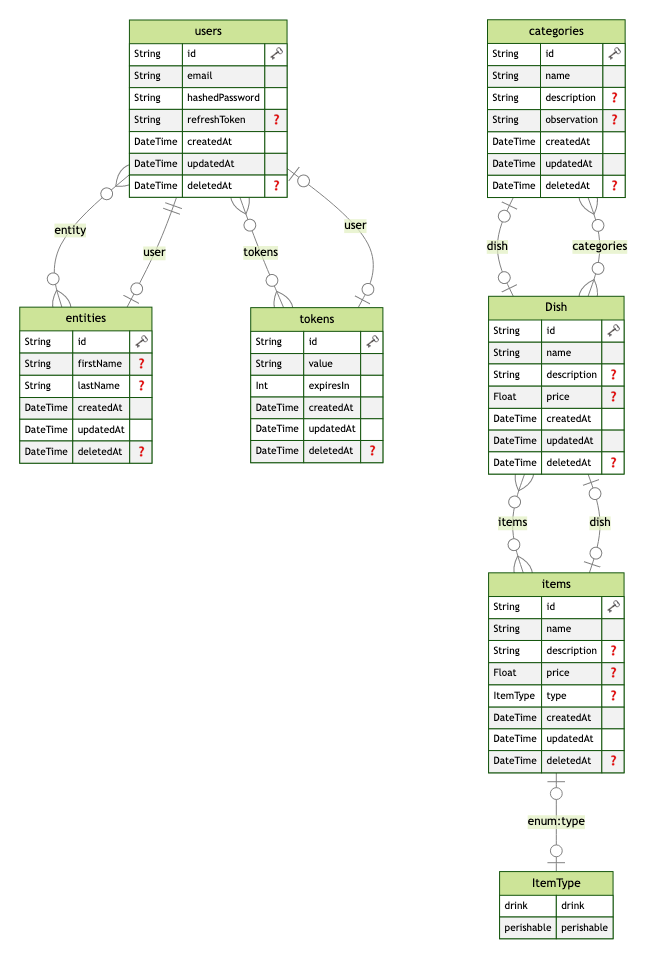
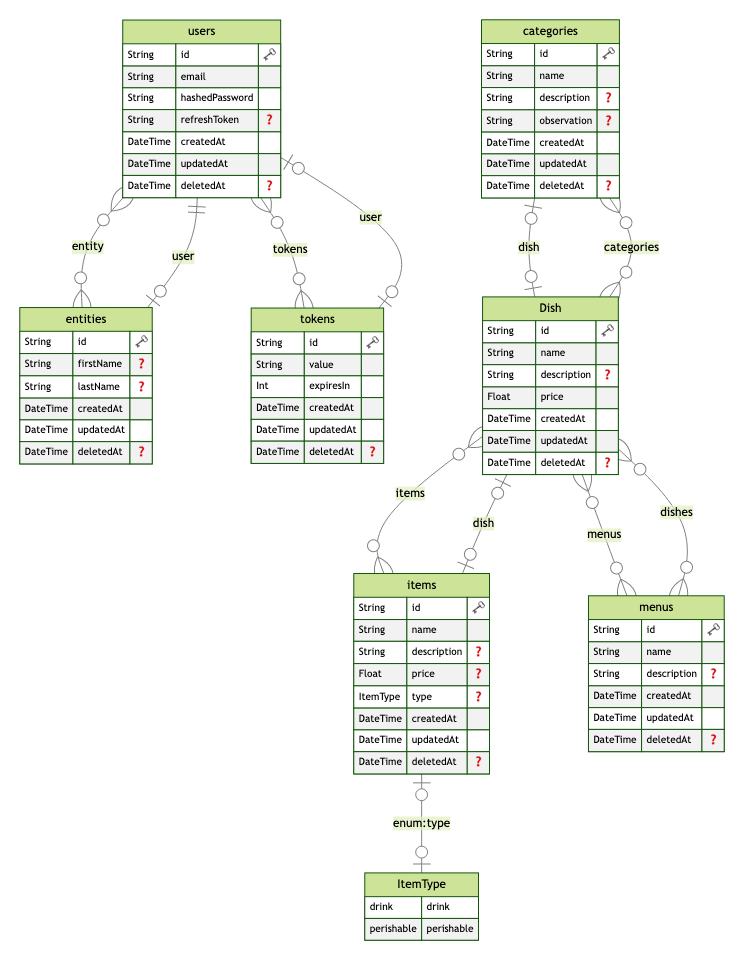
feat: menu crud

Changed region(s): [[0.0, 0.0, 0.9771, 0.9897]]

diff --git a/src/modules/menu/menu.service.ts b/src/modules/menu/menu.service.ts
@@ -1,0 +1,103 @@
+import {
+  BadRequestException,
+  Injectable,
+  NotFoundException,
+} from '@nestjs/common';
+import { PrismaService } from '../prisma/prisma.service';
+import { CreateMenuDto, UpdateMenuDto } from './dto';
+
+@Injectable()
+export class MenuService {
+  constructor(private prisma: PrismaService) {}
+
+  async getMenus() {
+    try {
+      const menus = await this.prisma.menu.findMany({
+        where: {
+          deletedAt: null,
+        },
+      });
+
+      return menus;
+    } catch (error) {
+      throw new BadRequestException('Erro ao buscar menus');
+    }
+  }
+
+  async getMenuById(id: string) {
+    try {
+      const menu = await this.prisma.menu.findUnique({
+        where: {
+          id: id,
+          deletedAt: null,
+        },
+      });
+
+      if (!menu) {
+        throw new NotFoundException('Menu não encontrado');
+      }
+
+      return menu;
+    } catch (error) {
+      if (error instanceof NotFoundException) {
+        throw new NotFoundException(error.message);
+      }
+
+      throw new BadRequestException('Erro ao buscar menu');
+    }
+  }
+
+  async createManu(dto: CreateMenuDto) {
+    try {
+      const menu = await this.prisma.menu.create({
+        data: {
+          name: dto.name,
+          description: dto.description,
+          dishes: {
+            connect: dto.dishIds.map((id) => ({ id })),
+          },
+        },
+      });
+
+      return menu;
+    } catch (error) {
+      throw new BadRequestException('Erro ao criar menu');
+    }
+  }
+
+  async updateMenu(id: string, dto: UpdateMenuDto) {
+    try {
+      const menu = await this.prisma.menu.update({
+        where: {
+          id: id,
+        },
+        data: {
+          name: dto.name,
+          description: dto.description,
+          dishes: {
+            connect: dto.dishIds.map((id) => ({ id })),
+          },
+        },
+      });
+
+      return menu;
+    } catch (error) {
+      throw new BadRequestException('Erro ao atualizar menu');
+    }
+  }
+
+  async deleteMenu(id: string) {
+    try {
+      await this.prisma.menu.update({
+        where: {
+          id: id,
+        },
+        data: {
+          deletedAt: new Date(),
+        },
+      });
+    } catch (error) {
+      throw new BadRequestException('Erro ao deletar menu');
+    }
+  }
+}

diff --git a/src/modules/menu/menu.controller.ts b/src/modules/menu/menu.controller.ts
@@ -1,0 +1,48 @@
+import {
+  Body,
+  Controller,
+  Delete,
+  Get,
+  HttpCode,
+  HttpStatus,
+  Param,
+  Post,
+  Put,
+} from '@nestjs/common';
+import { CreateMenuDto, UpdateMenuDto } from './dto';
+import { MenuService } from './menu.service';
+
+@Controller('menu')
+export class MenuController {
+  constructor(private readonly menuService: MenuService) {}
+
+  @Get()
+  @HttpCode(HttpStatus.OK)
+  async getMenus() {
+    return this.menuService.getMenus();
+  }
+
+  @Get('/:id')
+  @HttpCode(HttpStatus.OK)
+  async getMenuById(@Param('id') id: string) {
+    return this.menuService.getMenuById(id);
+  }
+
+  @Post()
+  @HttpCode(HttpStatus.CREATED)
+  async createManu(@Body() dto: CreateMenuDto) {
+    return this.menuService.createManu(dto);
+  }
+
+  @Put('/:id')
+  @HttpCode(HttpStatus.OK)
+  async updateMenu(@Param('id') id: string, @Body() dto: UpdateMenuDto) {
+    return this.menuService.updateMenu(id, dto);
+  }
+
+  @Delete('/:id')
+  @HttpCode(HttpStatus.OK)
+  async deleteMenu(@Param('id') id: string) {
+    return this.menuService.deleteMenu(id);
+  }
+}

diff --git a/src/app.module.ts b/src/app.module.ts
@@ -8,6 +8,7 @@ import { DishModule } from './modules/dish/dish.module';
 import { ItemModule } from './modules/item/item.module';
 import { PrismaModule } from './modules/prisma/prisma.module';
 import { UserModule } from './modules/user/user.module';
+import { MenuModule } from './modules/menu/menu.module';
 
 @Module({
   imports: [
@@ -18,6 +19,7 @@ import { UserModule } from './modules/user/user.module';
     CategoryModule,
     ItemModule,
     DishModule,
+    MenuModule,
   ],
   providers: [
     {

diff --git a/src/modules/menu/menu.controller.spec.ts b/src/modules/menu/menu.controller.spec.ts
@@ -1,0 +1,18 @@
+import { Test, TestingModule } from '@nestjs/testing';
+import { MenuController } from './menu.controller';
+
+describe('MenuController', () => {
+  let controller: MenuController;
+
+  beforeEach(async () => {
+    const module: TestingModule = await Test.createTestingModule({
+      controllers: [MenuController],
+    }).compile();
+
+    controller = module.get<MenuController>(MenuController);
+  });
+
+  it('should be defined', () => {
+    expect(controller).toBeDefined();
+  });
+});

diff --git a/src/modules/menu/menu.service.spec.ts b/src/modules/menu/menu.service.spec.ts
@@ -1,0 +1,18 @@
+import { Test, TestingModule } from '@nestjs/testing';
+import { MenuService } from './menu.service';
+
+describe('MenuService', () => {
+  let service: MenuService;
+
+  beforeEach(async () => {
+    const module: TestingModule = await Test.createTestingModule({
+      providers: [MenuService],
+    }).compile();
+
+    service = module.get<MenuService>(MenuService);
+  });
+
+  it('should be defined', () => {
+    expect(service).toBeDefined();
+  });
+});

diff --git a/src/modules/menu/dto/menu/create-menu.dto.ts b/src/modules/menu/dto/menu/create-menu.dto.ts
@@ -1,0 +1,15 @@
+import { IsArray, IsNotEmpty, IsOptional, IsString } from 'class-validator';
+
+export class CreateMenuDto {
+  @IsNotEmpty()
+  @IsString()
+  name: string;
+
+  @IsOptional()
+  @IsString()
+  description?: string;
+
+  @IsNotEmpty()
+  @IsArray()
+  dishIds: string[];
+}

diff --git a/src/modules/menu/dto/menu/update-menu.dto.ts b/src/modules/menu/dto/menu/update-menu.dto.ts
@@ -1,0 +1,15 @@
+import { IsArray, IsOptional, IsString } from 'class-validator';
+
+export class UpdateMenuDto {
+  @IsOptional()
+  @IsString()
+  name?: string;
+
+  @IsOptional()
+  @IsString()
+  description?: string;
+
+  @IsOptional()
+  @IsArray()
+  dishIds?: string[];
+}

diff --git a/src/modules/menu/menu.module.ts b/src/modules/menu/menu.module.ts
@@ -1,0 +1,9 @@
+import { Module } from '@nestjs/common';
+import { MenuController } from './menu.controller';
+import { MenuService } from './menu.service';
+
+@Module({
+  controllers: [MenuController],
+  providers: [MenuService]
+})
+export class MenuModule {}

diff --git a/src/modules/menu/dto/index.ts b/src/modules/menu/dto/index.ts
@@ -1,0 +1,2 @@
+export { CreateMenuDto } from './menu/create-menu.dto';
+export { UpdateMenuDto } from './menu/update-menu.dto';
